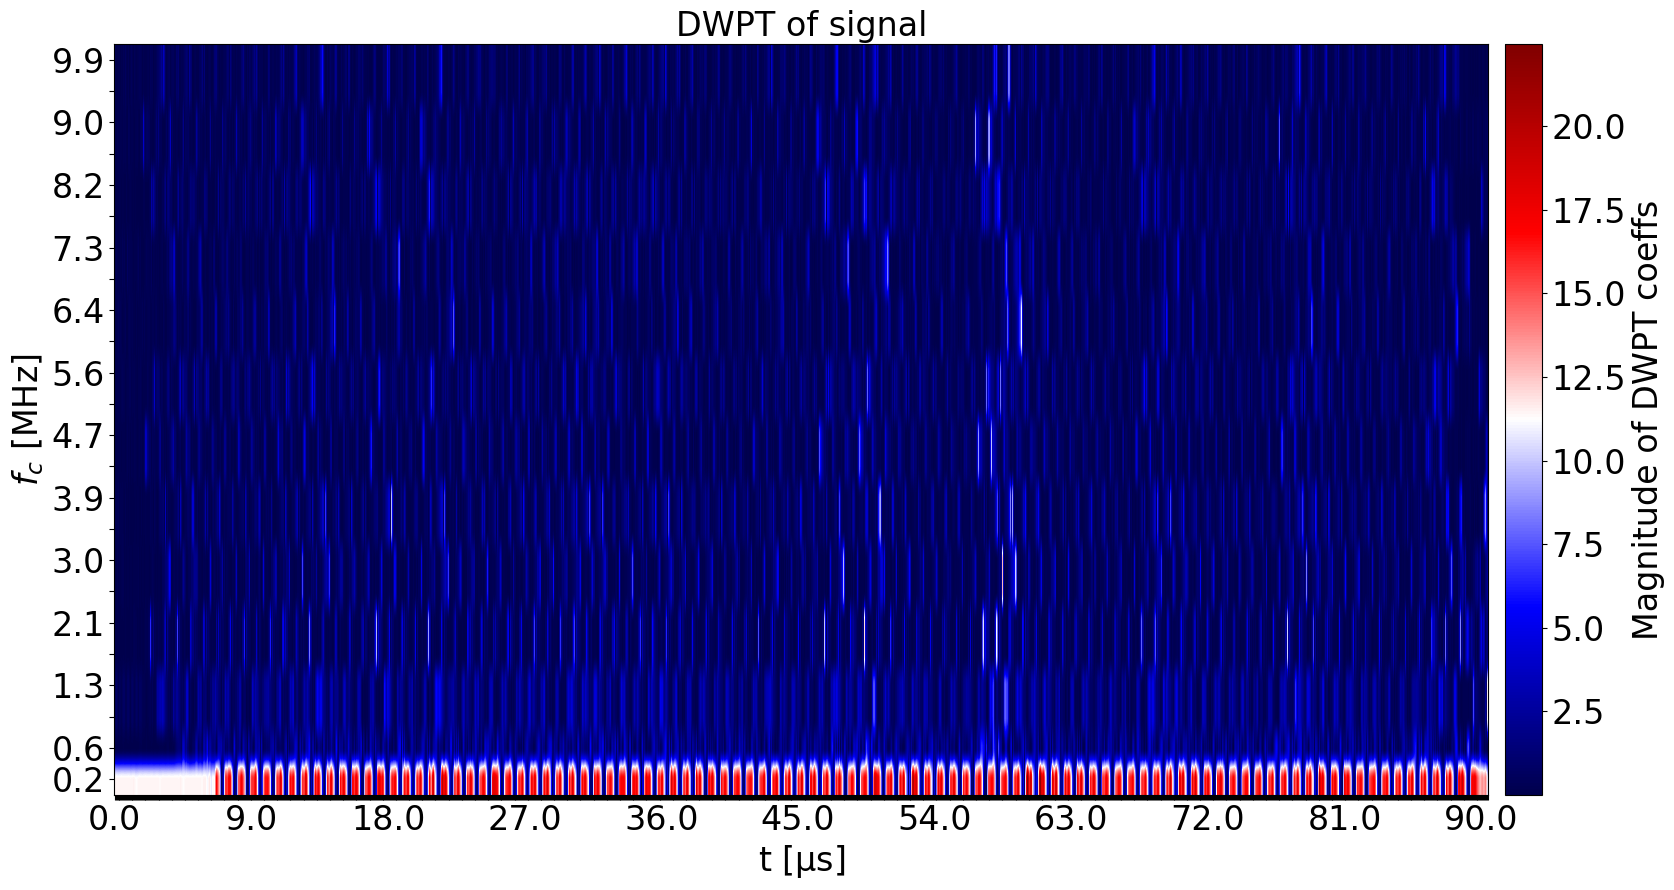
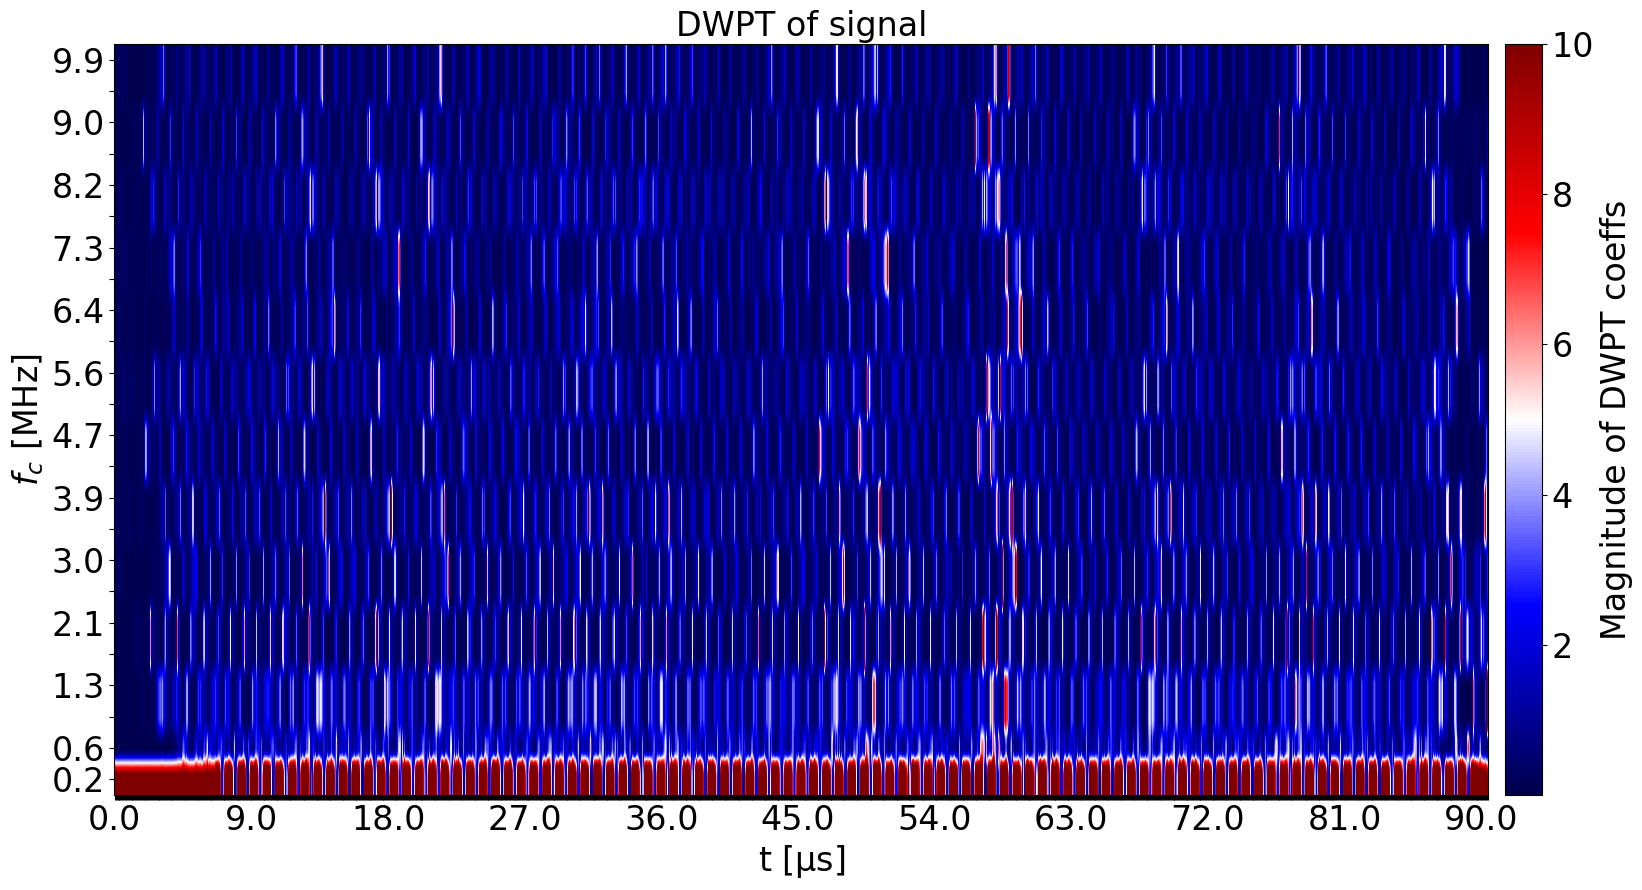
readme image update

diff --git a/README.md b/README.md
@@ -24,14 +24,17 @@ This library is partially funded by the Focused Ultrasound Foundation.
 
 ## Examples
 
-Bubble dynamics results:
+Bubble dynamics simulation:
 ![bdsimulation](bdsimulation.jpg)
 
-Heisenberg plot of wavelet packet trasnform:
+Heisenberg plot of wavelet packet transform:
 ![heisenberg](heisenberg.png)
 
 Tree plot of wavelet transform with node size corresponding to the energy in the node:
 ![treeplot](treeplot.png)
+
+Reconstructed data:
+![reconstruction](reconstruction.jpg)
 
 ## Installation
 
